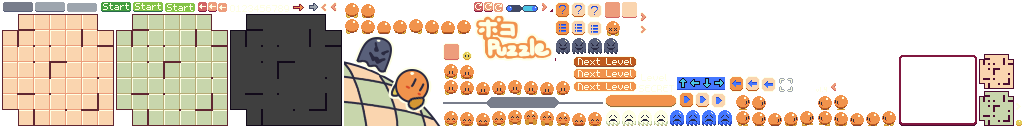
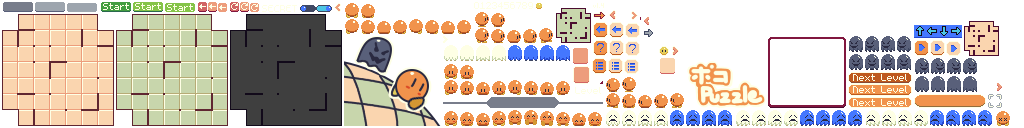
added directional ghost sprites, removed ghost arrow

Changed region(s): [[0.4062, 0.0, 1.0, 1.0], [0.2188, 0.0, 0.3438, 0.0938]]

diff --git a/core/src/main/java/com/distraction/glj9/tile/Ghost.java b/core/src/main/java/com/distraction/glj9/tile/Ghost.java
@@ -4,7 +4,6 @@ import com.badlogic.gdx.graphics.Color;
 import com.badlogic.gdx.graphics.g2d.SpriteBatch;
 import com.badlogic.gdx.graphics.g2d.TextureRegion;
 import com.badlogic.gdx.math.MathUtils;
-import com.badlogic.gdx.math.Vector2;
 import com.distraction.glj9.Constants;
 import com.distraction.glj9.utils.Animation;
 import com.distraction.glj9.Context;
@@ -15,9 +14,8 @@ public class Ghost extends Entity {
     private static final float[] INTERVAL = new float[] { 0.16f, 0.08f, 0.04f };
 
     private final Animation<TextureRegion> animation;
-    private final TextureRegion[] ghost;
-    private final TextureRegion[] sadGhost;
-    private final TextureRegion arrow;
+    private final TextureRegion[][] sheets;
+    private int currentSheet;
 
     private float time;
     private float bouncy;
@@ -30,12 +28,26 @@ public class Ghost extends Entity {
 
         w = 16;
         h = 16;
-        ghost = context.getImage("ghost").split(w, h)[0];
-        sadGhost = context.getImage("ghostsad").split(w, h)[0];
-        animation = new Animation<>(ghost, 0.1f);
+        sheets = new TextureRegion[][] {
+            context.getImage("ghostup").split(w, h)[0],
+            context.getImage("ghostleft").split(w, h)[0],
+            context.getImage("ghostdown").split(w, h)[0],
+            context.getImage("ghostright").split(w, h)[0],
+            context.getImage("ghostsadup").split(w, h)[0],
+            context.getImage("ghostsadleft").split(w, h)[0],
+            context.getImage("ghostsaddown").split(w, h)[0],
+            context.getImage("ghostsadright").split(w, h)[0],
+        };
+        currentSheet = direction.ordinal();
+        animation = new Animation<>(sheets[currentSheet], 0.1f);
         speed = context.speed;
+    }
 
-        arrow = context.getImage("ghostarrow");
+    @Override
+    public void moveDirection(Direction direction) {
+        super.moveDirection(direction);
+        currentSheet = direction.ordinal() + (sad ? 4 : 0);
+        animation.set(sheets[currentSheet], INTERVAL[speed - 1]);
     }
 
     public void setSpeed(int speed) {
@@ -46,8 +58,13 @@ public class Ghost extends Entity {
     public void setSad(boolean sad) {
         if (this.sad != sad) {
             this.sad = sad;
-            if (sad) animation.set(sadGhost, INTERVAL[speed - 1]);
-            else animation.set(ghost, INTERVAL[speed - 1]);
+            if (sad) {
+                currentSheet += 4;
+                animation.set(sheets[currentSheet], INTERVAL[speed - 1]);
+            } else {
+                currentSheet -= 4;
+                animation.set(sheets[currentSheet], INTERVAL[speed - 1]);
+            }
         }
     }
 
@@ -64,8 +81,5 @@ public class Ghost extends Entity {
         if (transparent) sb.setColor(Constants.TRANSPARENT);
         else sb.setColor(Color.WHITE);
         Utils.drawCentered(sb, animation.get(), x, y + bouncy + 4);
-        if (!started) {
-            Utils.drawCenteredRotated(sb, arrow, x, y + bouncy + 10, direction.deg);
-        }
     }
 }

diff --git a/core/src/main/java/com/distraction/glj9/screens/SplashScreen.java b/core/src/main/java/com/distraction/glj9/screens/SplashScreen.java
@@ -39,8 +39,8 @@ public class SplashScreen extends Screen {
         ignoreInput = false;
         out = new Transition(context, Transition.Type.FLASH_OUT, 0.5f, () -> context.sm.replace(new TitleScreen(context)));
 
-        player = new Animation<>(context.getImage("playerleft").split(16, 16)[1], 0.05f);
-        ghost = new Animation<>(context.getImage("ghost").split(16, 16)[0], 0.1f);
+        player = new Animation<>(context.getImage("playerright").split(16, 16)[1], 0.05f);
+        ghost = new Animation<>(context.getImage("ghostright").split(16, 16)[0], 0.1f);
         pellet = context.getImage("pellet");
         tile1 = context.getImage("tileset").split(TileMap.TILE_SIZE, TileMap.TILE_SIZE)[6][5];
         tile2 = context.getImage("tileset2").split(TileMap.TILE_SIZE, TileMap.TILE_SIZE)[6][5];
@@ -63,10 +63,10 @@ public class SplashScreen extends Screen {
 
         ghosty += dt;
         if (ghosty > MathUtils.PI2) ghosty -= MathUtils.PI2;
-        pelletx += 30 * dt;
-        if (pelletx > 0) pelletx -= 16;
-        tilex += 30 * dt;
-        if (tilex > 0) tilex -= 32;
+        pelletx -= 30 * dt;
+        if (pelletx < -16) pelletx += 16;
+        tilex -= 30 * dt;
+        if (tilex < -32) tilex += 32;
     }
 
     @Override
@@ -80,9 +80,9 @@ public class SplashScreen extends Screen {
             Utils.drawCentered(sb, tile1, tilex + i * 32, 13);
             Utils.drawCentered(sb, tile2, tilex + i * 32 + 16, 13);
         }
-        for (int i = 0; i < 6; i++) Utils.drawCentered(sb, pellet, pelletx + i * 16, 13);
+        for (int i = 0; i < 6; i++) Utils.drawCentered(sb, pellet, pelletx + i * 16 + Constants.WIDTH / 2f + 16, 13);
         Utils.drawCentered(sb, player.get(), Constants.WIDTH / 2f, 17);
-        Utils.drawCentered(sb, ghost.get(), Constants.WIDTH / 2f + 40, 18 + MathUtils.sin(ghosty * 2) * 2);
+        Utils.drawCentered(sb, ghost.get(), Constants.WIDTH / 2f - 40, 18 + MathUtils.sin(ghosty * 2) * 2);
 
         out.render(sb);
         sb.end();
